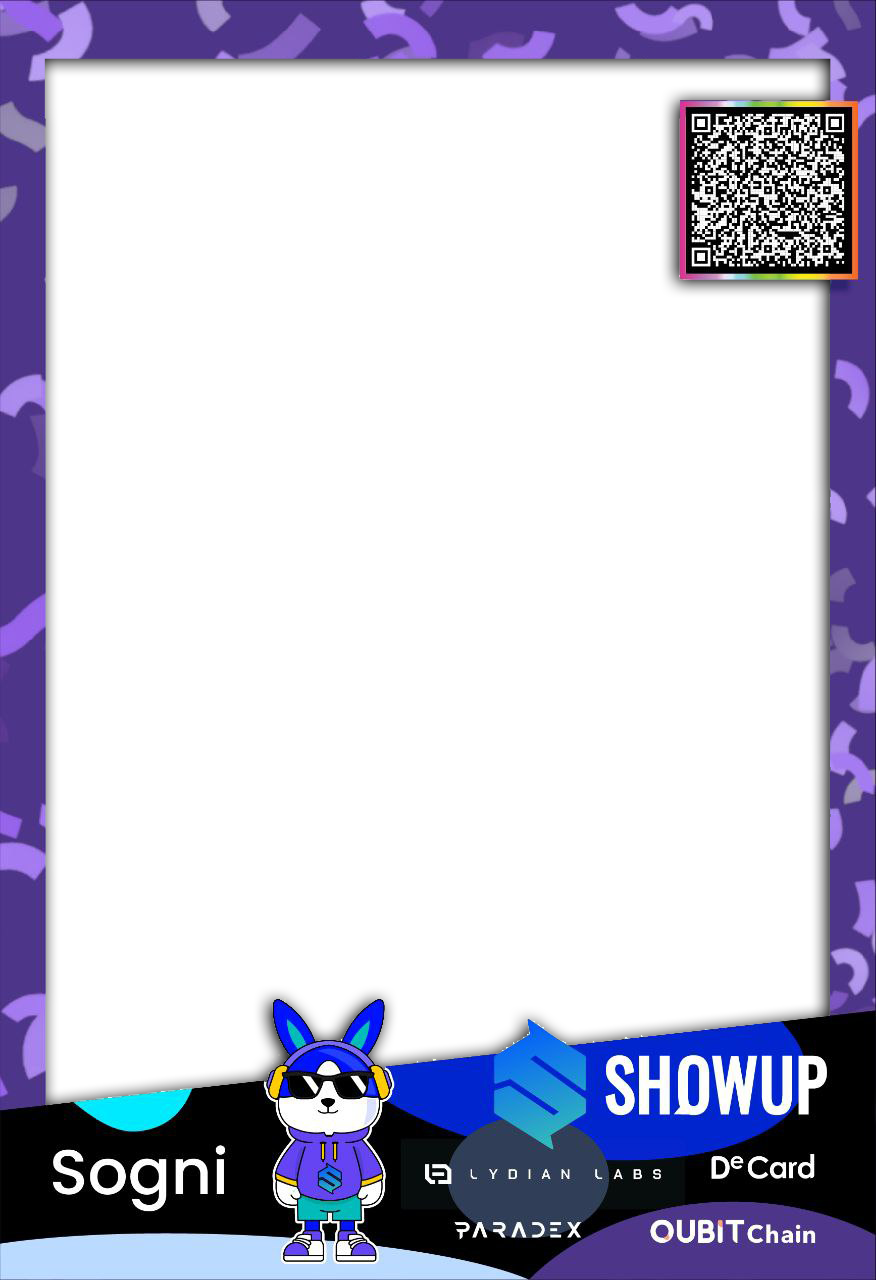
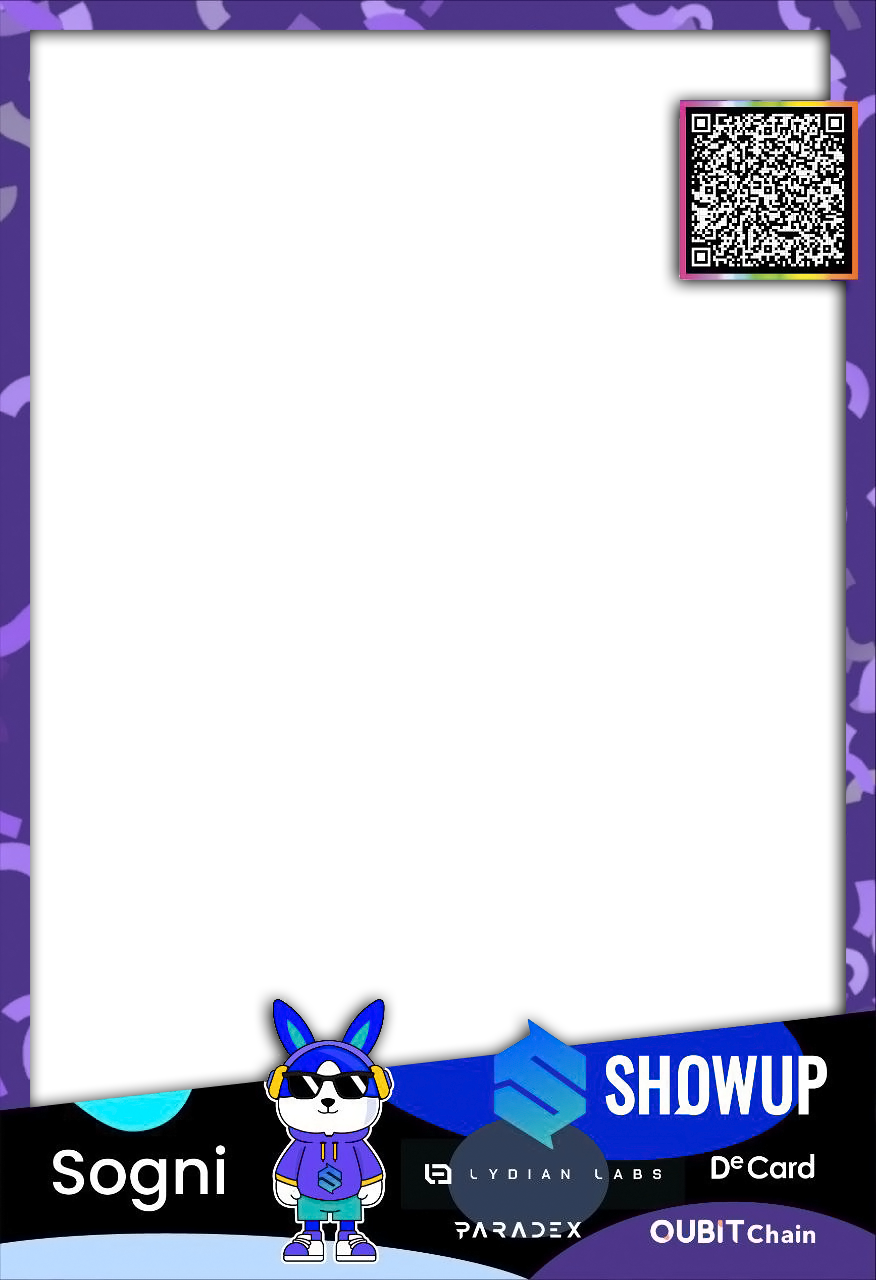
finish adding support for new Showup theme

diff --git a/src/styles/film-strip.css b/src/styles/film-strip.css
@@ -634,60 +634,22 @@ body .film-frame.selected,
 
 
 
-/* Remove white polaroid frame for Super Casual theme */
-body .film-frame.selected.super-casual-theme.loaded,
-body .film-frame.selected.super-casual-theme,
-.film-frame.selected.super-casual-theme {
+/* Remove white polaroid frame for ALL custom themes (any class ending with -theme) */
+body .film-frame.selected[class*="-theme"].loaded,
+body .film-frame.selected[class*="-theme"],
+.film-frame.selected[class*="-theme"] {
   background: transparent !important;
   box-shadow: none !important;
   padding: 0 !important;
 }
-.film-frame.selected.super-casual-theme img {
+.film-frame.selected[class*="-theme"] img {
   border: none !important;
   background: transparent !important;
 }
+
 /* Hide polaroid label for ALL custom themes (any class ending with -theme) */
 html body.has-selected-photo .film-strip-container.visible .film-frame.selected[class*="-theme"] .photo-label {
   display: none !important;
-}
-
-/* Remove white polaroid frame for Super Casual theme */
-body .film-frame.selected.super-casual-theme.loaded,
-body .film-frame.selected.super-casual-theme,
-.film-frame.selected.super-casual-theme {
-  background: transparent !important;
-  box-shadow: none !important;
-  padding: 0 !important;
-}
-.film-frame.selected.super-casual-theme img {
-  border: none !important;
-  background: transparent !important;
-}
-
-/* Remove white polaroid frame for Tezos WebX theme */
-body .film-frame.selected.tezos-webx-theme.loaded,
-body .film-frame.selected.tezos-webx-theme,
-.film-frame.selected.tezos-webx-theme {
-  background: transparent !important;
-  box-shadow: none !important;
-  padding: 0 !important;
-}
-.film-frame.selected.tezos-webx-theme img {
-  border: none !important;
-  background: transparent !important;
-}
-
-/* Remove white polaroid frame for Taipei Blockchain Week theme */
-body .film-frame.selected.taipei-blockchain-theme.loaded,
-body .film-frame.selected.taipei-blockchain-theme,
-.film-frame.selected.taipei-blockchain-theme {
-  background: transparent !important;
-  box-shadow: none !important;
-  padding: 0 !important;
-}
-.film-frame.selected.taipei-blockchain-theme img {
-  border: none !important;
-  background: transparent !important;
 }
 
 
@@ -718,7 +680,7 @@ body .film-frame.selected.taipei-blockchain-theme,
     border: none !important;
     width: auto !important;
     height: auto !important;
-    max-width: calc(100vw - 32px) !important; /* 16px * 2 */
+    /* max-width: calc(100vw - 32px) !important; */
     max-height: calc(88vh - 72px) !important; /* 16px + 56px */
     object-fit: contain !important;
     background: transparent !important;
@@ -747,60 +709,22 @@ body .film-frame.selected.taipei-blockchain-theme,
   
 
   
-  /* Remove white polaroid frame for Super Casual theme on mobile */
-  body .film-frame.selected.super-casual-theme.loaded,
-  body .film-frame.selected.super-casual-theme,
-  .film-frame.selected.super-casual-theme {
+  /* Remove white polaroid frame for ALL custom themes on mobile (any class ending with -theme) */
+  body .film-frame.selected[class*="-theme"].loaded,
+  body .film-frame.selected[class*="-theme"],
+  .film-frame.selected[class*="-theme"] {
     background: transparent !important;
     box-shadow: none !important;
     padding: 0 !important;
   }
-  .film-frame.selected.super-casual-theme img {
+  .film-frame.selected[class*="-theme"] img {
     border: none !important;
     background: transparent !important;
   }
+  
   /* Hide polaroid label for ALL custom themes on mobile (any class ending with -theme) */
   .film-frame.selected[class*="-theme"] .photo-label {
     display: none !important;
-  }
-  
-  /* Remove white polaroid frame for Super Casual theme on mobile */
-  body .film-frame.selected.super-casual-theme.loaded,
-  body .film-frame.selected.super-casual-theme,
-  .film-frame.selected.super-casual-theme {
-    background: transparent !important;
-    box-shadow: none !important;
-    padding: 0 !important;
-  }
-  .film-frame.selected.super-casual-theme img {
-    border: none !important;
-    background: transparent !important;
-  }
-  
-  /* Remove white polaroid frame for Tezos WebX theme on mobile */
-  body .film-frame.selected.tezos-webx-theme.loaded,
-  body .film-frame.selected.tezos-webx-theme,
-  .film-frame.selected.tezos-webx-theme {
-    background: transparent !important;
-    box-shadow: none !important;
-    padding: 0 !important;
-  }
-  .film-frame.selected.tezos-webx-theme img {
-    border: none !important;
-    background: transparent !important;
-  }
-  
-  /* Remove white polaroid frame for Taipei Blockchain Week theme on mobile */
-  body .film-frame.selected.taipei-blockchain-theme.loaded,
-  body .film-frame.selected.taipei-blockchain-theme,
-  .film-frame.selected.taipei-blockchain-theme {
-    background: transparent !important;
-    box-shadow: none !important;
-    padding: 0 !important;
-  }
-  .film-frame.selected.taipei-blockchain-theme img {
-    border: none !important;
-    background: transparent !important;
   }
 
   

diff --git a/src/components/shared/PhotoGallery.jsx b/src/components/shared/PhotoGallery.jsx
@@ -400,7 +400,8 @@ const PhotoGallery = ({
     switch (tezdevTheme) {
       case 'supercasual':
       case 'tezoswebx':
-      case 'taipeiblockchain': {
+      case 'taipeiblockchain':
+      case 'showup': {
         return aspectRatio === 'narrow';
       }
       default:
@@ -1660,7 +1661,7 @@ const PhotoGallery = ({
             return (
               <div
                 key={photo.id}
-                className={`film-frame loading ${isSelected ? 'selected' : ''} ${photo.newlyArrived ? 'newly-arrived' : ''} ${isSelected && isThemeSupported() && tezdevTheme === 'supercasual' ? 'super-casual-theme' : ''} ${isSelected && isThemeSupported() && tezdevTheme === 'tezoswebx' ? 'tezos-webx-theme' : ''}`}
+                className={`film-frame loading ${isSelected ? 'selected' : ''} ${photo.newlyArrived ? 'newly-arrived' : ''} ${isSelected && isThemeSupported() && tezdevTheme === 'supercasual' ? 'super-casual-theme' : ''} ${isSelected && isThemeSupported() && tezdevTheme === 'tezoswebx' ? 'tezos-webx-theme' : ''} ${isSelected && isThemeSupported() && tezdevTheme === 'showup' ? 'showup-theme' : ''}`}
                 data-enhancing={photo.enhancing ? 'true' : undefined}
                 data-error={photo.error ? 'true' : undefined}
                 data-enhanced={photo.enhanced ? 'true' : undefined}
@@ -1738,7 +1739,7 @@ const PhotoGallery = ({
           return (
             <div 
               key={photo.id}
-              className={`film-frame ${isSelected ? 'selected' : ''} ${photo.loading ? 'loading' : ''} ${isLoaded ? 'loaded' : ''} ${photo.newlyArrived ? 'newly-arrived' : ''} ${isSelected && isThemeSupported() && tezdevTheme === 'supercasual' ? 'super-casual-theme' : ''} ${isSelected && isThemeSupported() && tezdevTheme === 'tezoswebx' ? 'tezos-webx-theme' : ''} ${isSelected && isThemeSupported() && tezdevTheme === 'taipeiblockchain' ? 'taipei-blockchain-theme' : ''}`}
+              className={`film-frame ${isSelected ? 'selected' : ''} ${photo.loading ? 'loading' : ''} ${isLoaded ? 'loaded' : ''} ${photo.newlyArrived ? 'newly-arrived' : ''} ${isSelected && isThemeSupported() && tezdevTheme === 'supercasual' ? 'super-casual-theme' : ''} ${isSelected && isThemeSupported() && tezdevTheme === 'tezoswebx' ? 'tezos-webx-theme' : ''} ${isSelected && isThemeSupported() && tezdevTheme === 'taipeiblockchain' ? 'taipei-blockchain-theme' : ''} ${isSelected && isThemeSupported() && tezdevTheme === 'showup' ? 'showup-theme' : ''}`}
               onClick={e => isSelected ? handlePhotoViewerClick(e) : handlePhotoSelect(index, e)}
               data-enhancing={photo.enhancing ? 'true' : undefined}
               data-error={photo.error ? 'true' : undefined}

diff --git a/src/context/AppContext.tsx b/src/context/AppContext.tsx
@@ -117,6 +117,7 @@ export const AppProvider: React.FC<{ children: React.ReactNode }> = ({ children 
       preferredCameraDeviceId: getSettingFromCookie('preferredCameraDeviceId', DEFAULT_SETTINGS.preferredCameraDeviceId),
       kioskMode: getSettingFromCookie('kioskMode', DEFAULT_SETTINGS.kioskMode),
       // Worker preferences
+      requiredWorkers: getSettingFromCookie('requiredWorkers', DEFAULT_SETTINGS.requiredWorkers),
       preferWorkers: getSettingFromCookie('preferWorkers', DEFAULT_SETTINGS.preferWorkers),
       skipWorkers: getSettingFromCookie('skipWorkers', DEFAULT_SETTINGS.skipWorkers)
     };

diff --git a/src/types/index.ts b/src/types/index.ts
@@ -56,7 +56,7 @@ export interface ModelOption {
 
 export type AspectRatioOption = 'portrait' | 'landscape' | 'square' | 'narrow' | 'wide' | 'ultrawide' | 'ultranarrow';
 
-export type TezDevTheme = 'supercasual' | 'tezoswebx' | 'taipeiblockchain' | 'off';
+export type TezDevTheme = 'supercasual' | 'tezoswebx' | 'taipeiblockchain' | 'showup' | 'off';
 
 export type OutputFormat = 'png' | 'jpg';
 
